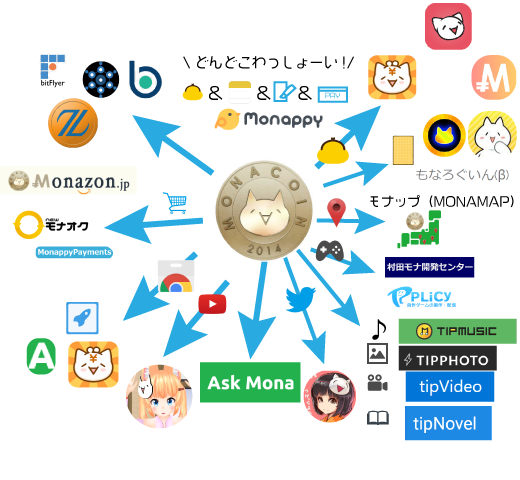
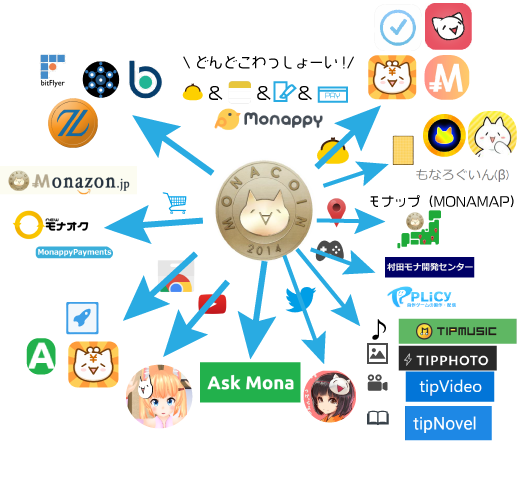
add canpayment

diff --git a/illustmap/monacoin/js/sample.js b/illustmap/monacoin/js/sample.js
@@ -51,17 +51,18 @@
                     if (node.name == "monacoin"){
                         img.src = "https://harunonsystem.github.io/illustmap/monacoin/images/monacoin.png";
                             ctx.drawImage(img, pt.x - w / 0.7, pt.y - w / 0.7, 200, 200);
-                        
                     }
                     else if (node.name == "monya") {
                         img.src = "https://harunonsystem.github.io/illustmap/monacoin/images/monya.png";
                             ctx.drawImage(img, pt.x - w / 2, pt.y - w / 2, 100, 100);
-                        
+                    }
+                    else if (node.name == "canpayment") {
+                        img.src = "https://harunonsystem.github.io/illustmap/monacoin/images/canpayment.png";
+                            ctx.drawImage(img, pt.x - w / 2, pt.y - w / 2, 100, 100);
                     }
                     else if (node.name == "twitter") {
                         img.src = "https://harunonsystem.github.io/illustmap/monacoin/images/aoitori.png";
                             ctx.drawImage(img, pt.x - w / 1.5, pt.y - w / 1.5, 70, 70);
-                        
                     }
                     else if (node.name == "youtube") {
                         img.src = "https://harunonsystem.github.io/illustmap/monacoin/images/Youtube.png";
@@ -203,7 +204,6 @@
                         ctx.fillStyle = "rgba(0,0,255,0)"
                         gfx.oval(pt.x - w / 2, pt.y - w / 2, w, w, { fill: ctx.fillStyle })
                     }
-                    
                     else {
                         ctx.fillStyle = "rgba(0,0,0,0.666)"
                         gfx.oval(pt.x - w / 2, pt.y - w / 2, w, w, { fill: ctx.fillStyle })
@@ -221,8 +221,6 @@
                     }*/
                 })
             },
-
-
             initMouseHandling: function () {
                 var dragged = null;
                 var isClick = null;
@@ -366,6 +364,7 @@
         sys.addNode('wallet',);
         sys.addNode('pan', {url: "https://www.panwallet.com/"});
         sys.addNode('monawallet', {url: "http://monawallet.net/"});
+        sys.addNode('canpayment', {url: "https://canpayment.work/"});
 
         sys.addNode('ecservices', {});
         sys.addNode('monazon', { url: "https://monazon.jp" });
@@ -386,6 +385,7 @@
         sys.addEdge('wallet', 'monya');
         sys.addEdge('wallet', 'monawallet');
         sys.addEdge('wallet', 'pan');
+        sys.addEdge('wallet', 'canpayment');
 
         sys.addEdge('monacoin', 'twitter');
         sys.addEdge('twitter', 'monacoinchan');
